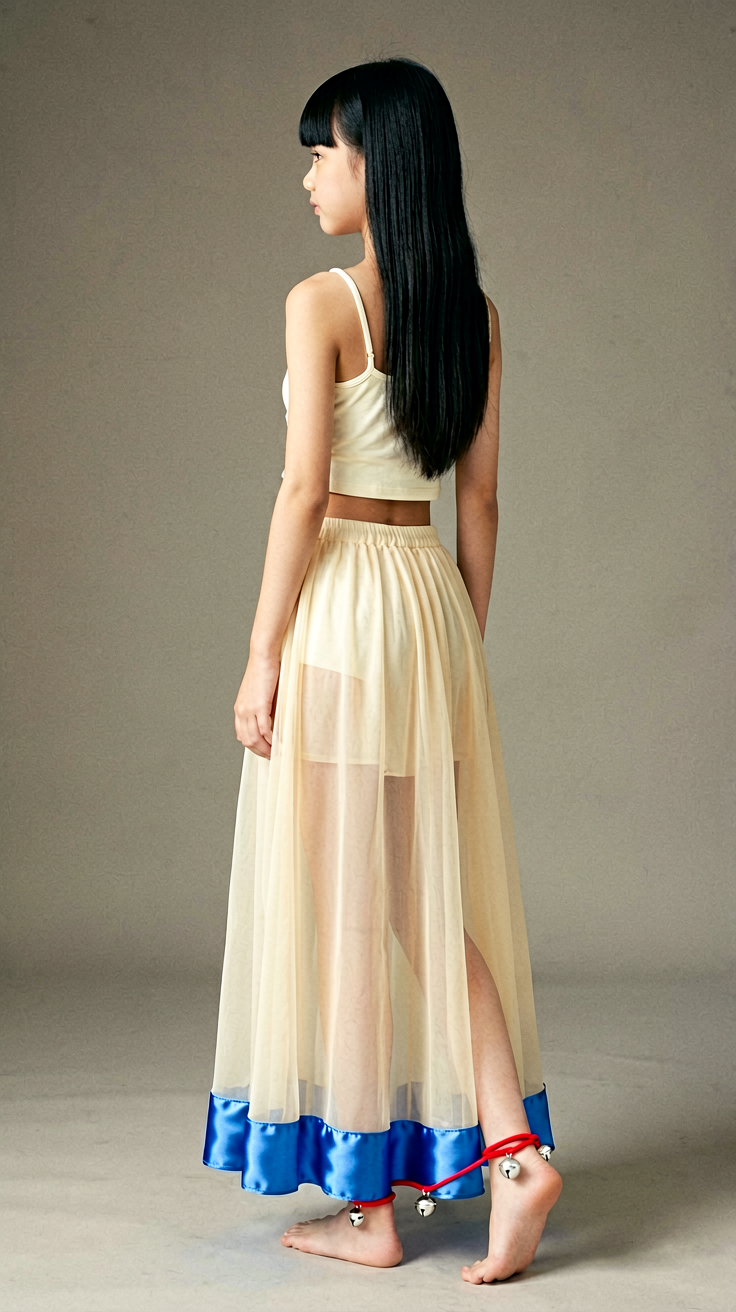
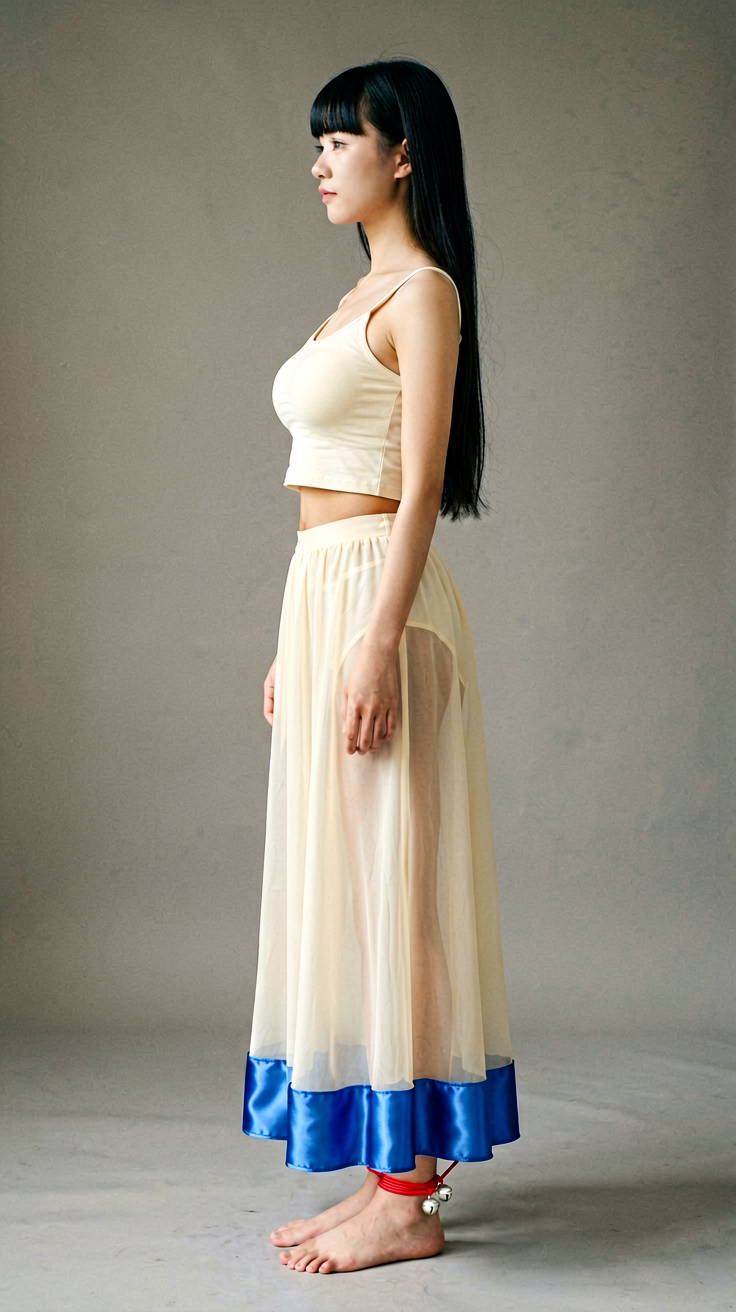
定妆照：吴依依_v3 定稿（侧身站姿双脚并立；粉白小吊带+透光薄纱长裙+蓝色流光绸缎宽边；红绳银铃锁死挂左脚踝、右脚踝光素；胸部曲线饱满不穿模）；设定卡同步修正红绳银铃左右位置描述（之前写反，改回'左脚=画面里靠后那只脚'）

diff --git a/01_大纲/狐渡_角色视觉设定.md b/01_大纲/狐渡_角色视觉设定.md
@@ -75,7 +75,7 @@
 **妆造锚定词（出图固定规格，勿漂移）**
 - 发型：**齐刘海＋双侧直发垂到胸前（发在身前，不甩背后）**（无辫无髻，以定妆照 `吴依依_v3.png` 为准）
 - 服装（上下两截，粉白两色）：**粉白色小吊带背心（细肩带双肩/两臂整个露出，保守圆领，到自然腰线收，露出一段平坦小腹）** ＋ **粉白色透光薄纱长裙，下摆蓝色包边加宽至约 15cm，做流光绸缎效果**（薄纱透光，裙摆垂顺盖到脚面，出图时双脚脚踝自然被裙摆半遮）
-- 定妆照主图：**不画银饰、不画手腕光绳、不穿凉鞋（光脚）**；**红绳银铃挂在左脚踝（画面右侧那只脚）**，右手腕光素无绳无铃
+- 定妆照主图：**侧身站姿、双脚并立（双脚不分开、不穿模）**，不画银饰、不画手腕光绳、不穿凉鞋（光脚）；**红绳银铃挂在左脚（画面里靠里/靠后的那只脚）**，右脚踝光素无绳无铃
 
 **出图纪律（定妆照 vs 分镜帧，各管各的）**
 - 定妆照（全身）：**只锁脸型/发型/服装大块面**，锚物（银铃/光绳/凉鞋）一律不画——反复出图证明，全身图里画小细节（红绳/银铃）模型控制力太弱，不如交给单项特写
